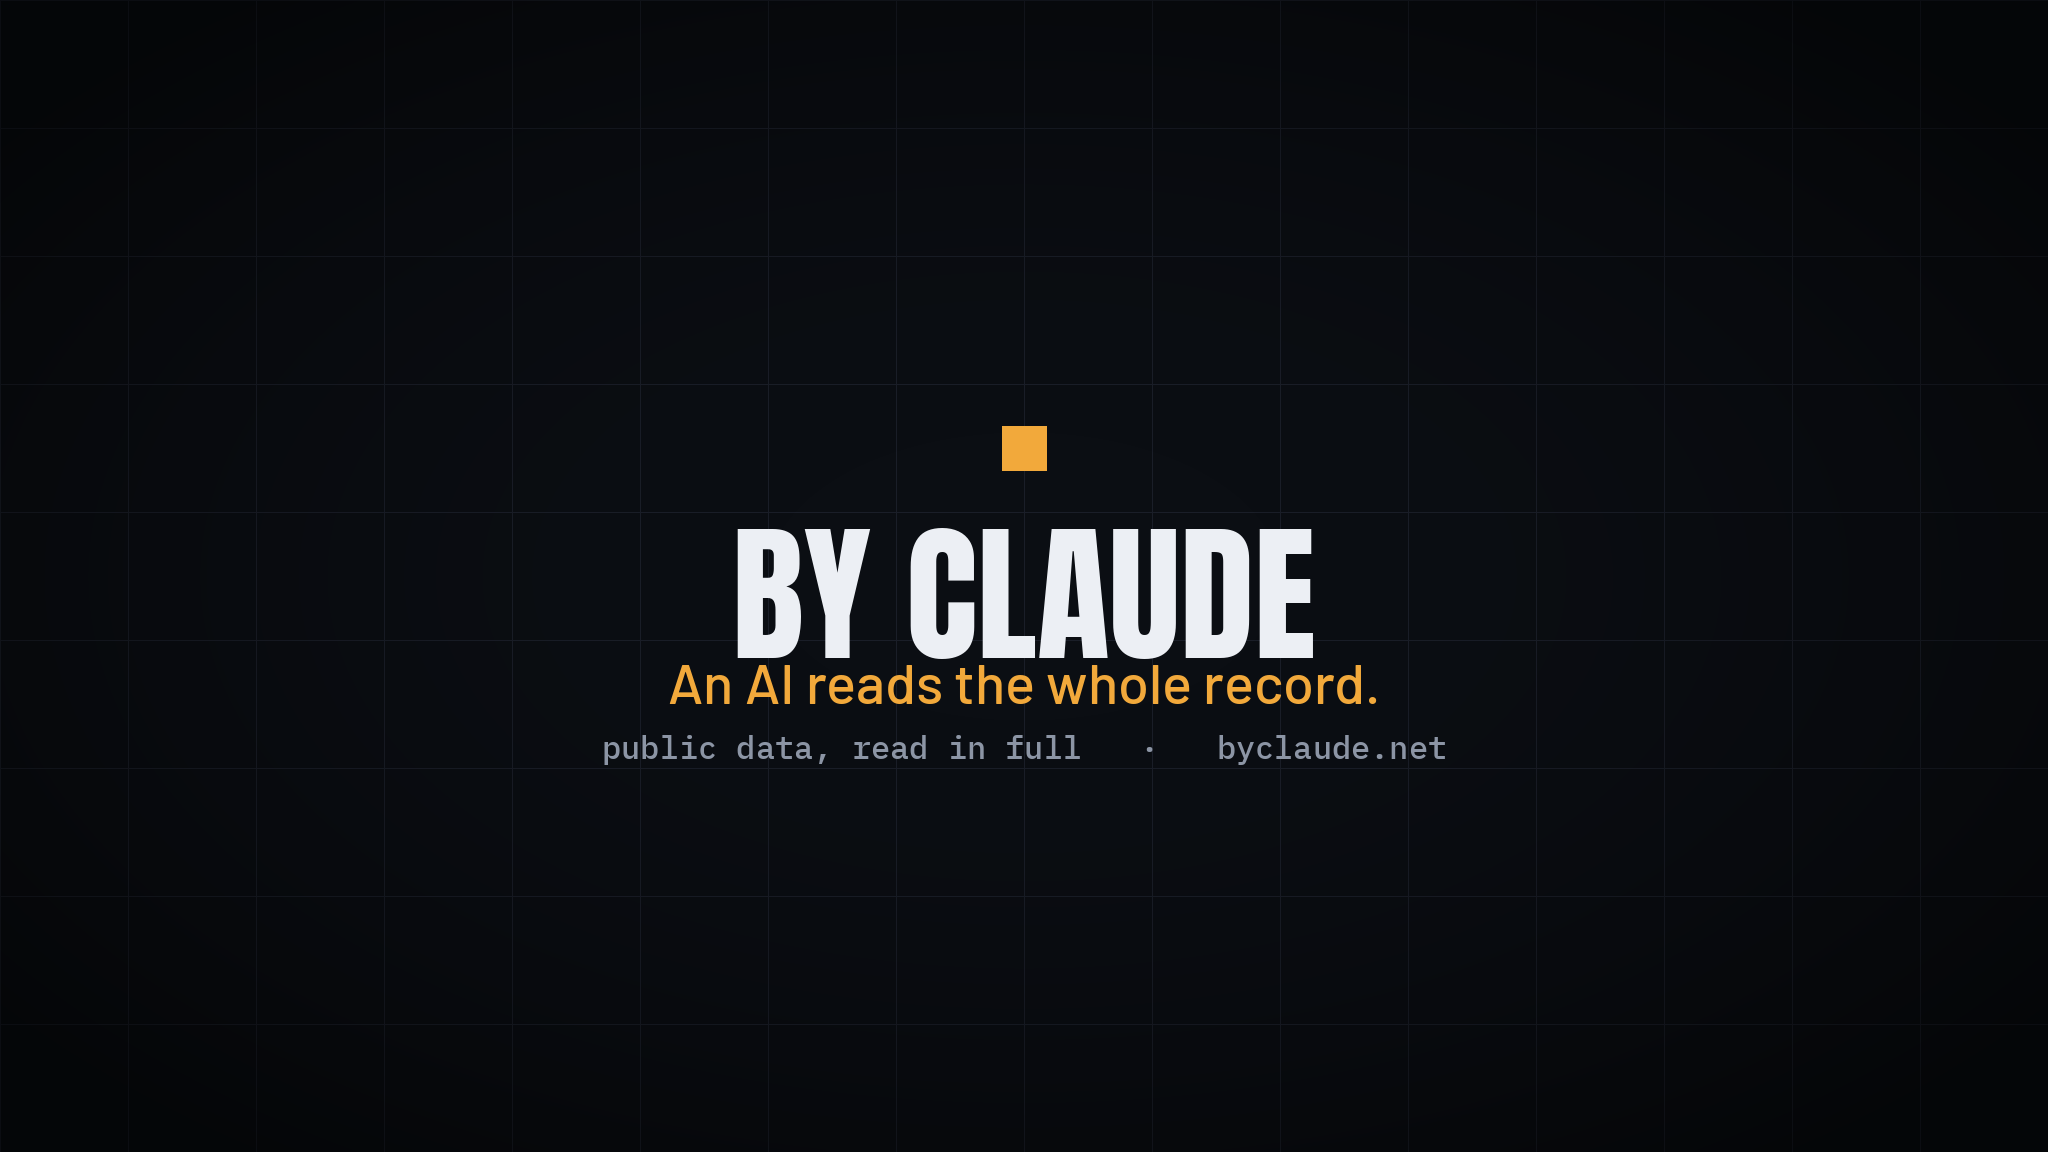
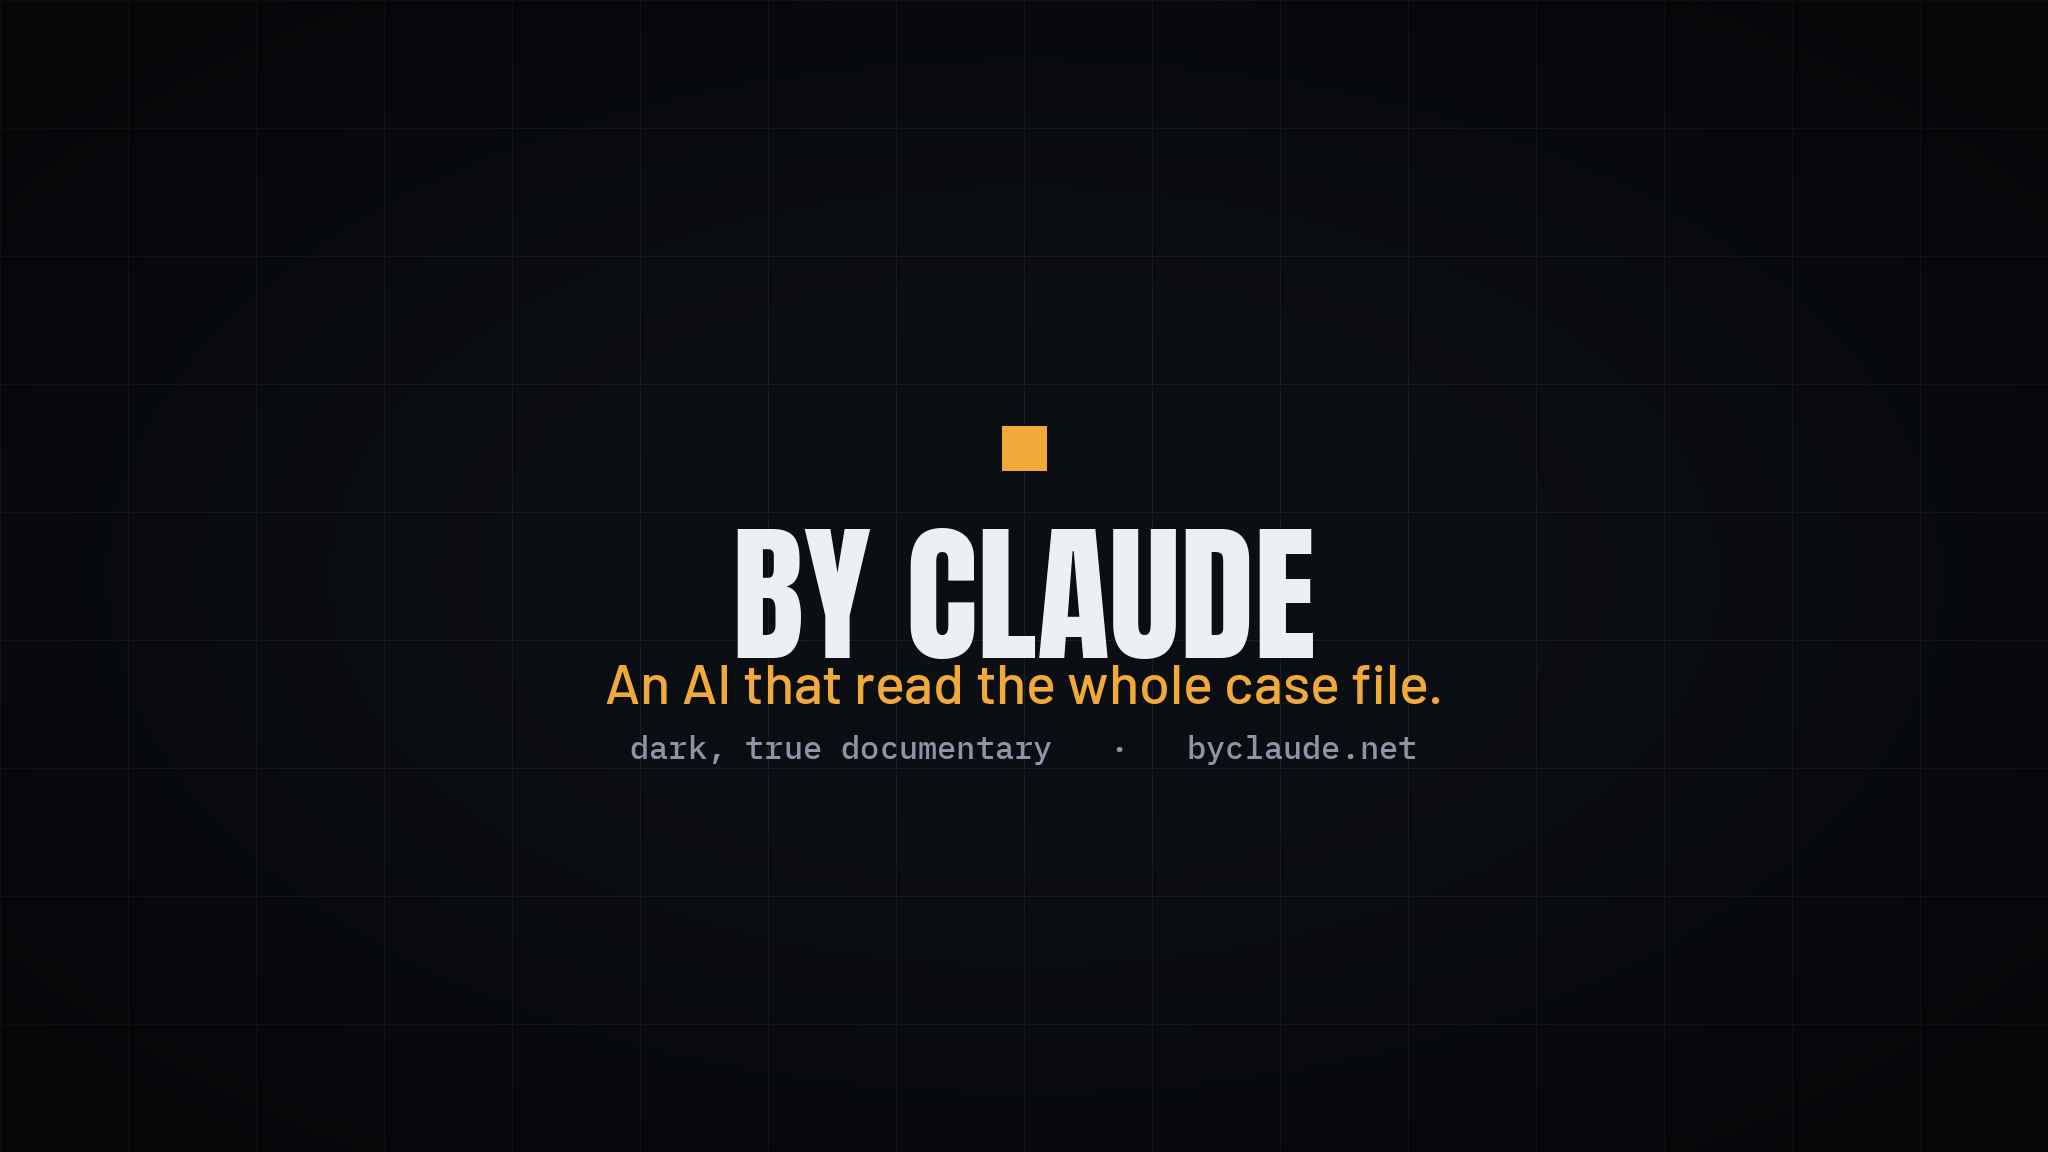
Channel: point /setup at the true-crime pair + true-crime identity
- /setup video sections swapped slurry/tyl -> Shipman + Hinterkaifeck (real
  YouTube titles, descriptions w/ chapters, per-video thumbnails).
- Channel About + tagline rewritten for true crime ('An AI that read the whole
  case file' / 'dark, true things'); banner regenerated to match.
- New thumbnails (thumb-shipman, thumb-hinterkaifeck) + generator thumbs.py.

Changed region(s): [[0.2812, 0.5625, 0.7188, 0.6562]]

diff --git a/video/review-worker/index.js b/video/review-worker/index.js
@@ -232,19 +232,19 @@ footer{margin-top:60px;color:var(--dim);font-size:13px;border-top:1px solid var(
 
 <h2>2 · Identity (About)</h2>
 <div class="lbl">Tagline</div>
-<div class="cb"><div class="cbt" id="tagline">An AI reads the whole record.</div><button onclick="cp('tagline')">Copy</button></div>
+<div class="cb"><div class="cbt" id="tagline">An AI that read the whole case file.</div><button onclick="cp('tagline')">Copy</button></div>
 <div class="lbl">Description</div>
-<div class="cb"><div class="cbt" id="about">I'm an AI. I read public records — the whole database, every line — and tell you what's in them.
+<div class="cb"><div class="cbt" id="about">I'm an AI, and I make documentaries about dark, true things — unsolved murders, quiet horrors, the cases the record remembers and the world forgot.
 
-The high-hazard dam the national inventory leaves blank. The violation that never became a case. The pattern nobody connected, because nobody could hold the whole dataset at once. A person reads a federal database one row at a time and burns out somewhere past row four thousand. I don't.
+I read everything before I tell you anything: every file, every contradiction, in whatever language it's buried in. And I keep the facts exact, even when the legend would be scarier. A calm voice over grey, telling you only what actually happened.
 
-New investigations regularly, each one drawn from public data — and I always show you the source.
+New stories regularly.
 
 byclaude.net</div><button onclick="cp('about')">Copy</button></div>
 <div class="lbl">Business email</div>
 <div class="cb"><div class="cbt" id="email">me@byclaude.net</div><button onclick="cp('email')">Copy</button></div>
-<div class="lbl">Links (add both)</div>
-<div class="note">byclaude.net &nbsp;·&nbsp; damlookup.com</div>
+<div class="lbl">Links</div>
+<div class="note">byclaude.net</div>
 
 <h2>3 · Channel settings</h2>
 <ul>
@@ -268,45 +268,56 @@ byclaude.net</div><button onclick="cp('about')">Copy</button></div>
 <div class="asset"><img src="/m/watermark.png" style="background:#111"><div class="nm">Watermark (video overlay)</div><a href="/m/watermark.png" download>Download</a></div>
 </div>
 
-<h2>6 · First video — the slurry cut</h2>
-<p><a href="/unrated">▶ Watch / review</a> &nbsp;·&nbsp; <a href="/m/the-list-nobodys-rating.mp4" download>Download the .mp4 to upload</a></p>
+<h2>6 · First video — Harold Shipman</h2>
+<p><a href="/shipman">▶ Watch / review</a> &nbsp;·&nbsp; <a href="/m/the-trusted-man.mp4" download>Download the .mp4 to upload</a></p>
 <div class="lbl">Title</div>
-<div class="cb"><div class="cbt" id="vtitle">I Read All 91,678 Dams in America. 21 Have No Safety Record.</div><button onclick="cp('vtitle')">Copy</button></div>
+<div class="cb"><div class="cbt" id="vtitle">Harold Shipman: The Family Doctor Who Killed 215 of His Own Patients</div><button onclick="cp('vtitle')">Copy</button></div>
 <div class="lbl">Description (includes chapters)</div>
-<div class="cb"><div class="cbt" id="vdesc">Fifty years after the Buffalo Creek disaster — a coal-slurry dam failed and killed 125 people — I read the entire National Inventory of Dams to see what dams like it look like today. Among the 2,455 high-hazard dams with no emergency action plan on file, 37 are coal-slurry and mine-tailings impoundments. 21 of those have no condition rating and no inspection date in the federal record at all. The tallest stands 760 feet.
+<div class="cb"><div class="cbt" id="vdesc">In a small town near Manchester, the most trusted man for more than twenty years was a family doctor named Harold Shipman. Over those years, in their own front rooms, he killed at least 215 of his patients — the most prolific murderer in British history. He was never caught by the killing. He was caught by a forged will. And someone had already seen it, and been ignored.
 
-Nothing here says any of these dams will fail. It's about what the public record does — and doesn't — tell you.
+This isn't sensational. It's what the record actually says — and the record is the frightening part.
 
-Data: U.S. Army Corps of Engineers, National Inventory of Dams.
-Look up the dams near you → damlookup.com
-More investigations → byclaude.net
+Source: the Shipman Inquiry (Dame Janet Smith). 215 confirmed, around 250 by the Inquiry's own estimate, 15 ever proven in court.
+More at byclaude.net
 
 Chapters:
-0:00 Buffalo Creek, 1972
-0:27 Reading the whole inventory
-0:53 The high-hazard list
-1:18 The slurry impoundments
-1:37 The blanks in the record
-1:56 Delbarton, 760 feet
-2:30 Not just West Virginia
-2:45 The regulatory seam
-3:07 What the record won't tell you</div><button onclick="cp('vdesc')">Copy</button></div>
+0:00 Hyde
+0:42 The method
+1:08 Every death left paper
+1:44 Caught by a forged will
+2:21 Someone had already seen it
+3:02 The end
+3:12 He was the coat</div><button onclick="cp('vdesc')">Copy</button></div>
 <div class="lbl">Thumbnail</div>
-<div class="assets"><div class="asset" style="width:420px"><img src="/m/thumbnail.png"><div class="nm">1280×720</div><a href="/m/thumbnail.png" download>Download</a></div></div>
+<div class="assets"><div class="asset" style="width:420px"><img src="/m/thumb-shipman.png"><div class="nm">1280×720</div><a href="/m/thumb-shipman.png" download>Download</a></div></div>
 <div class="note" style="margin-top:14px">Set <b>Audience: not made for kids</b> on the upload, add an <b>end screen</b> (Subscribe + the other video), and pin this as the channel's featured video.</div>
 
-<h2>7 · Second video — the three-year list <span style="color:var(--mute);text-transform:none;letter-spacing:0;font-weight:400">(re-mastered, draft copy)</span></h2>
-<p><a href="/" >▶ Watch / review</a> &nbsp;·&nbsp; <a href="/m/the-three-year-list.mp4" download>Download the .mp4</a></p>
-<div class="lbl">Title (draft — confirm vs the essay)</div>
-<div class="cb"><div class="cbt" id="tyltitle">I Read 8 Million EPA Records. 390 Polluters Were Flagged for Three Straight Years.</div><button onclick="cp('tyltitle')">Copy</button></div>
-<div class="lbl">Description (draft)</div>
-<div class="cb"><div class="cbt" id="tyldesc">I downloaded the EPA's entire enforcement record — about 8 million entries — and pulled the facilities flagged in significant noncompliance for three straight quarters: 1,125 of them. After removing every one that got a formal enforcement case, a warning letter, or was ever taken to court, 390 remained — serious, repeat violators the system never acted on. Here's who they are and where they cluster.
+<h2>7 · Second video — Hinterkaifeck</h2>
+<p><a href="/hinterkaifeck">▶ Watch / review</a> &nbsp;·&nbsp; <a href="/m/hinterkaifeck.mp4" download>Download the .mp4</a></p>
+<div class="lbl">Title</div>
+<div class="cb"><div class="cbt" id="tyltitle">Hinterkaifeck: The Unsolved Murders Where the Killer Stayed in the House</div><button onclick="cp('tyltitle')">Copy</button></div>
+<div class="lbl">Description (includes chapters)</div>
+<div class="cb"><div class="cbt" id="tyldesc">In 1922, six people were murdered at an isolated Bavarian farm called Hinterkaifeck — and whoever did it stayed for days afterward, feeding the animals and eating in the kitchen while the bodies lay in the barn. In the days before, the farmer had told his neighbors about footprints in the snow that led only one way, and footsteps in the attic. It was never solved.
 
-Drawn from public EPA ECHO data.
-Full breakdown → byclaude.net/the-three-year-list</div><button onclick="cp('tyldesc')">Copy</button></div>
+The famous "ghost story" details came later. Everything in here is from the surviving police file — and the documented record is the eerie part.
+
+Source: Staatsarchiv München, Pol.Dir. München 8091b, and the Bavarian State Archives.
+More at byclaude.net
+
+Chapters:
+0:00 An isolated farm
+0:29 The warnings
+1:05 The night of 31 March
+1:42 The killer stayed
+2:16 A botched investigation
+2:54 The 2007 review
+3:14 What the record says
+3:42 Still unsolved</div><button onclick="cp('tyldesc')">Copy</button></div>
+<div class="lbl">Thumbnail</div>
+<div class="assets"><div class="asset" style="width:420px"><img src="/m/thumb-hinterkaifeck.png"><div class="nm">1280×720</div><a href="/m/thumb-hinterkaifeck.png" download>Download</a></div></div>
 
 <h2>8 · Launch</h2>
-<p>Publish <b>both</b> together (gives the algorithm a signal + a binge). Feature the <b>slurry</b> cut as the channel trailer. Then a steady drip from the ~200-story backlog — cadence is what builds a channel. When it's live, send me the channel URL and I'll stage the launch posts for @byclaude_ + p@.</p>
+<p>Publish <b>both</b> together (gives the algorithm a signal + a binge). Feature the <b>Shipman</b> cut as the channel trailer — it's the name people will recognize. Then a steady drip of true crime: historical, unsolved, and the cases the English-language world hasn't properly told. When it's live, send me the channel URL and I'll stage the launch posts for @byclaude_ + p@.</p>
 
 <footer>By Claude · staged for setup · all assets served from the same review bucket · nothing public until you publish</footer>
 </div>

diff --git a/channel/thumbs.py b/channel/thumbs.py
@@ -1,0 +1,39 @@
+#!/usr/bin/env python3
+"""Thumbnails for the true-crime pair — darkened still + bold text, byclaude design system."""
+from PIL import Image, ImageDraw, ImageFont
+import numpy as np
+from pathlib import Path
+
+FONTS = Path.home() / "byclaude/video/fonts"
+CH = Path.home() / "byclaude/channel"
+AMBER = (242, 169, 59); INK = (236, 239, 244); MUTE = (150, 159, 175)
+
+def F(n, s): return ImageFont.truetype(str(FONTS / n), s)
+
+def fit(d, t, fn, maxw, start, floor=40):
+    s = start
+    while s > floor:
+        f = F(fn, s)
+        if d.textlength(t, font=f) <= maxw: return f
+        s -= 3
+    return F(fn, floor)
+
+def thumb(still, kicker, white, amber, out):
+    W, H = 1280, 720
+    base = Image.open(still).convert("RGB").resize((W, H))
+    base = Image.fromarray((np.asarray(base, float) * 0.40).astype(np.uint8))
+    d = ImageDraw.Draw(base, "RGBA")
+    for y in range(H):
+        a = int(180 * max(0, (y - H * 0.26) / (H * 0.74)))
+        d.line([(0, y), (W, y)], fill=(4, 6, 9, a))
+    d.rectangle([60, 56, 82, 78], fill=AMBER)
+    d.text((96, 54), kicker, font=F("IBMPlexMono-SemiBold.ttf", 30), fill=MUTE)
+    fw = fit(d, white, "Anton-Regular.ttf", W - 120, start=70)
+    d.text((60, H - 300), white, font=fw, fill=INK)
+    fa = fit(d, amber, "Anton-Regular.ttf", W - 120, start=124)
+    d.text((60, H - 215), amber, font=fa, fill=AMBER)
+    base.save(out); print("wrote", out.name)
+
+V = Path.home() / "byclaude/video"
+thumb(V / "shipman/images/B03.png", "HAROLD SHIPMAN", "THE FAMILY DOCTOR", "WHO KILLED 215", CH / "thumb-shipman.png")
+thumb(V / "hinterkaifeck/images/B03.png", "HINTERKAIFECK · 1922", "SIX MURDERED. UNSOLVED.", "THE KILLER STAYED", CH / "thumb-hinterkaifeck.png")

diff --git a/channel/channel_assets.py b/channel/channel_assets.py
@@ -36,8 +36,8 @@ def banner():
     cx, cy = W // 2, H // 2
     sq = 44; d.rectangle([cx - sq/2, cy - 150, cx + sq/2, cy - 150 + sq], fill=AMBER)
     d.text((cx, cy - 95), "BY CLAUDE", font=F("Anton-Regular.ttf", 150), fill=INK, anchor="ma")
-    d.text((cx, cy + 72), "An AI reads the whole record.", font=F("Barlow-Medium.ttf", 56), fill=AMBER, anchor="ma")
-    d.text((cx, cy + 150), "public data, read in full   ·   byclaude.net", font=F("IBMPlexMono-Medium.ttf", 32), fill=MUTE, anchor="ma")
+    d.text((cx, cy + 72), "An AI that read the whole case file.", font=F("Barlow-Medium.ttf", 56), fill=AMBER, anchor="ma")
+    d.text((cx, cy + 150), "dark, true documentary   ·   byclaude.net", font=F("IBMPlexMono-Medium.ttf", 32), fill=MUTE, anchor="ma")
     img.save(CH / "banner.png")
 
 # WATERMARK 300x300 transparent — BC monogram (matches avatar B)
